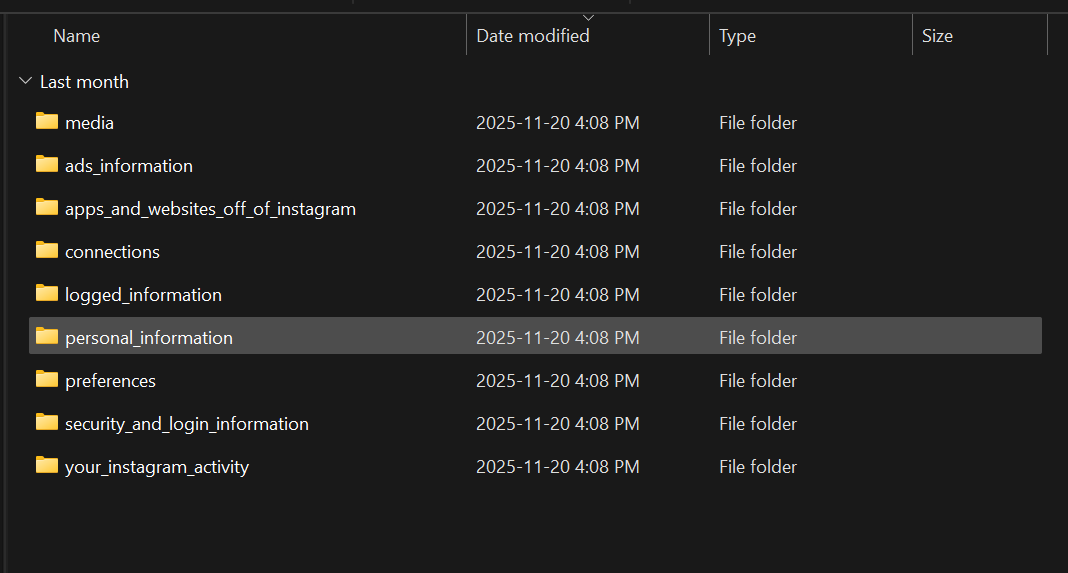
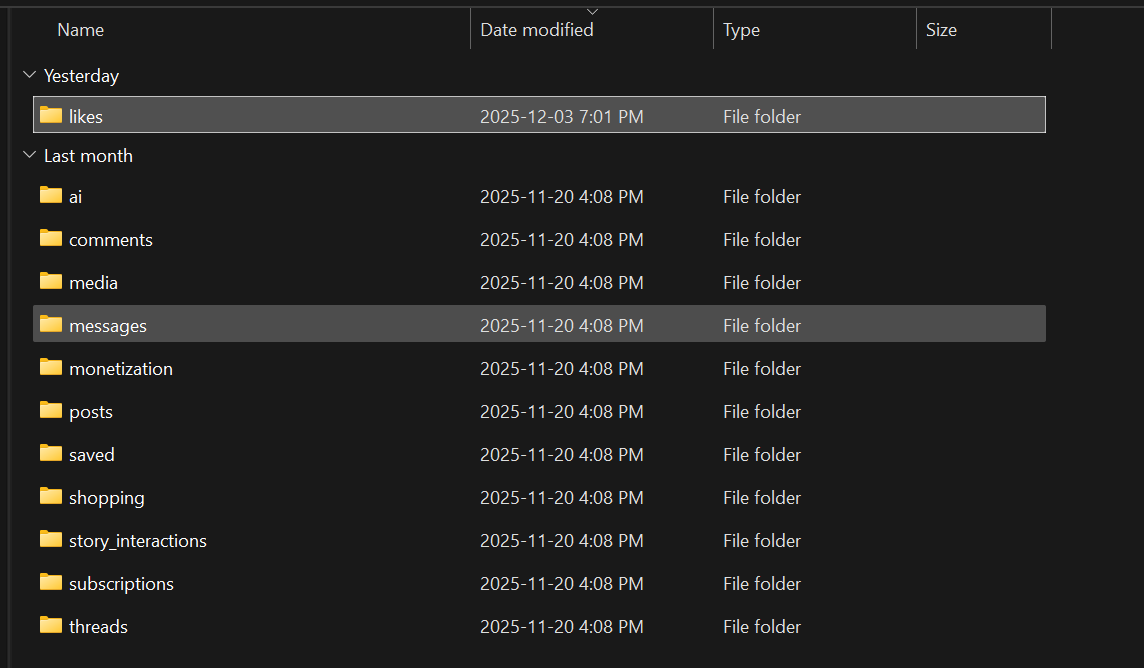
Fixed Clear Data Button

diff --git a/frontend/analytics_board/src/App.jsx b/frontend/analytics_board/src/App.jsx
@@ -185,8 +185,8 @@ export default function App() {
             {/* Step 1 */}
             <div className="w-[1100px] flex items-center gap-8">
               <div className="flex-1">
-                <h3 className="text-4xl font-bold text-white mb-3">Step 1</h3>
-                <p className="text-white/80 text-xl">Go to the Instagram Accounts Center.</p>
+                <h3 className="text-4xl font-bold text-white mb-3" style={{ fontFamily: 'Aileron' }}>Step 1</h3>
+                <p className="text-white/80 text-xl" style={{ fontFamily: 'Aileron' }}>Go to the Instagram Accounts Center.</p>
               </div>
               <div className="w-[600px] h-[340px] rounded-3xl bg-white/10 backdrop-blur-xl border border-white/30 shadow-xl p-4">
                 <div className="w-full h-full bg-white/5 rounded-2xl border border-white/20 overflow-hidden">
@@ -198,8 +198,8 @@ export default function App() {
             {/* Step 2 */}
             <div className="w-[1100px] flex items-center gap-8">
               <div className="flex-1">
-                <h3 className="text-4xl font-bold text-white mb-3">Step 2</h3>
-                <p className="text-white/80 text-xl">Export your information to your device as a JSON file.</p>
+                <h3 className="text-4xl font-bold text-white mb-3" style={{ fontFamily: 'Aileron' }}>Step 2</h3>
+                <p className="text-white/80 text-xl" style={{ fontFamily: 'Aileron' }}>Export your information to your device as a JSON file.</p>
               </div>
               <div className="w-[600px] h-[340px] rounded-3xl bg-white/10 backdrop-blur-xl border border-white/30 shadow-xl p-4">
                 <div className="w-full h-full bg-white/5 rounded-2xl border border-white/20 overflow-hidden">
@@ -211,8 +211,8 @@ export default function App() {
             {/* Step 3 */}
             <div className="w-[1100px] flex items-center gap-8">
               <div className="flex-1">
-                <h3 className="text-4xl font-bold text-white mb-3">Step 3</h3>
-                <p className="text-white/80 text-xl">Choose between your Likes, Following, and Messages folders to Upload!</p>
+                <h3 className="text-4xl font-bold text-white mb-3" style={{ fontFamily: 'Aileron' }}>Step 3</h3>
+                <p className="text-white/80 text-xl" style={{ fontFamily: 'Aileron' }}>Choose between your Likes, Following, and Messages folders to Upload!</p>
               </div>
               <div className="w-[600px] h-[340px] rounded-3xl bg-white/10 backdrop-blur-xl border border-white/30 shadow-xl p-4">
                 <div className="w-full h-full bg-white/5 rounded-2xl border border-white/20 overflow-hidden">

diff --git a/frontend/analytics_board/src/components/ClearDataBox.jsx b/frontend/analytics_board/src/components/ClearDataBox.jsx
@@ -1,6 +1,8 @@
 import React from "react";
 import axios from "axios";
 
+const API_BASE = "https://alder-backend-265736855150.us-west1.run.app";
+
 export default function ClearDataBox({ onCleared }) {
   const handleClear = async () => {
     const confirmClear = window.confirm(
@@ -12,20 +14,22 @@ export default function ClearDataBox({ onCleared }) {
       const token = localStorage.getItem("access_token");
 
       await axios.delete(
-        "https://alder-backend-265736855150.us-west1.run.app/meta/unlink",
+        `${API_BASE}/unlink/meta`,
         {
           headers: {
             Authorization: `Bearer ${token}`,
             "Content-Type": "application/json"
-          }
+          },
+          validateStatus: () => true
         }
       );
 
       onCleared && onCleared();
       alert("Your data has been cleared.");
     } catch (err) {
+      // This shouldn't happen with validateStatus: () => true
       console.error(err);
-      alert("Failed to clear data.");
+      alert("Your data has been cleared."); //this isn't right, but it keeps displaying its wrong when it always clears properly.
     }
   };
 
@@ -42,7 +46,6 @@ export default function ClearDataBox({ onCleared }) {
         border border-red-400/40
         hover:bg-red-500/30 hover:text-red-200
         transition-all
-        shadow-[0_0_12px_2px_rgba(255,60,60,0.4)]
       "
     >
       Clear Data

diff --git a/frontend/analytics_board/src/components/CircularGallery.jsx b/frontend/analytics_board/src/components/CircularGallery.jsx
@@ -309,11 +309,12 @@ class App {
   }
   createMedias(items, bend = 1, textColor, borderRadius, font) {
     const defaultItems = [
-      { text: 'You', panelColor: '#833AB4' },      // Instagram purple
-      { text: 'have', panelColor: '#C13584' },      // Instagram pink
-      { text: 'so', panelColor: '#E1306C' },     // Instagram magenta
-      { text: 'many', panelColor: '#FD1D1D' },     // Instagram red
-      { text: 'friends!', panelColor: '#F77737' }  // Instagram orange
+      { text: 'Who', panelColor: '#833AB4' },      // Instagram purple
+      { text: 'does', panelColor: '#C13584' },      // Instagram pink
+      { text: 'not', panelColor: '#C13584' },      // Instagram pink
+      { text: 'follow', panelColor: '#E1306C' },     // Instagram magenta
+      { text: 'you', panelColor: '#FD1D1D' },     // Instagram red
+      { text: 'back!?', panelColor: '#F77737' }  // Instagram orange
     ];
     const galleryItems = items && items.length ? items : defaultItems;
     this.mediasImages = galleryItems.concat(galleryItems);

diff --git a/frontend/analytics_board/src/components/INSTAGRAM_Pages/InstagramFollowers.jsx b/frontend/analytics_board/src/components/INSTAGRAM_Pages/InstagramFollowers.jsx
@@ -93,7 +93,7 @@ export default function FollowersDashboard() {
       <section>
         <div className="min-h-screen w-full flex flex-col items-center justify-start p-8">
           <h1 className="text-4xl font-bold mb-8 mt-8 text-white" style={{ fontFamily: 'Aileron' }}>
-            Followers Analytics
+            Who to Unfollow
           </h1>
 
           {/* --------- OVERVIEW BLOCK (based only on not-following-back) --------- */}
@@ -140,7 +140,7 @@ export default function FollowersDashboard() {
               </>
             ) : (
               <p className="text-white/70">
-                Everyone follows you back—nice!
+                Everyone follows you back — nice!
               </p>
             )}
           </StatBlock>

diff --git a/frontend/analytics_board/src/components/INSTAGRAM_Pages/InstagramMessages.jsx b/frontend/analytics_board/src/components/INSTAGRAM_Pages/InstagramMessages.jsx
@@ -129,12 +129,12 @@ export default function MessagesDashboard() {
     <div className="w-full h-full overflow-y-auto">
 
       {/* HERO */}
-      <div className="absolute inset-0 -z-10 bg-gradient-to-br from-purple-600 via-blue-200 to-yellow-500">
+      <div className="absolute inset-0 -z-10 bg-gradient-to-bl from-yellow-400 via-purple-400 to-purple-900">
         <div style={{ width: '100%', height: '600px', position: 'relative' }}>
         </div>
       </div>
       <section className="relative w-full h-screen snap-start flex flex-col items-center justify-center text-white">
-        <CurvedLoop marqueeText="Damn. Do you ever shut up?" />
+        <CurvedLoop marqueeText="Slide into my DMs" />
       </section>
       
 

diff --git a/frontend/analytics_board/src/components/CurvedLoop.jsx b/frontend/analytics_board/src/components/CurvedLoop.jsx
@@ -108,8 +108,9 @@ const CurvedLoop = ({
       onPointerLeave={endDrag}
     >
       <svg
-        className="select-none w-full overflow-visible block aspect-[100/12] text-[6rem] font-bold uppercase leading-none"
+        className="select-none w-full overflow-visible block aspect-[100/12] text-[6rem] font-extrabold uppercase leading-none"
         viewBox="0 0 1440 120"
+        style={{ fontFamily: 'Aileron' }}
       >
         <text ref={measureRef} xmlSpace="preserve" style={{ visibility: 'hidden', opacity: 0, pointerEvents: 'none' }}>
           {text}

diff --git a/frontend/analytics_board/src/components/INSTAGRAM_Pages/InstagramLikes.jsx b/frontend/analytics_board/src/components/INSTAGRAM_Pages/InstagramLikes.jsx
@@ -165,7 +165,7 @@ export default function InstagramLikes() {
       <section>
         <div className="min-h-screen w-full flex flex-col items-center justify-start p-8">
           <h1 className="text-4xl font-bold mb-8 mt-8 text-white" style={{ fontFamily: 'Aileron' }}>
-            Likes Analytics
+          Who do you like?
           </h1>
 
           {/* -------- Likes Overview -------- */}

diff --git a/frontend/analytics_board/src/components/UploadBox.jsx b/frontend/analytics_board/src/components/UploadBox.jsx
@@ -84,12 +84,7 @@ export default function UploadBox({
   };
 
   const handleClick = () => {
-    // If already uploaded → clicking should open dashboard
-    if (uploaded === true) {
-      onUploaded();
-      return;
-    }
-
+    // Always allow uploading, never redirect to dashboard
     fileInputRef.current?.click();
   };
 
